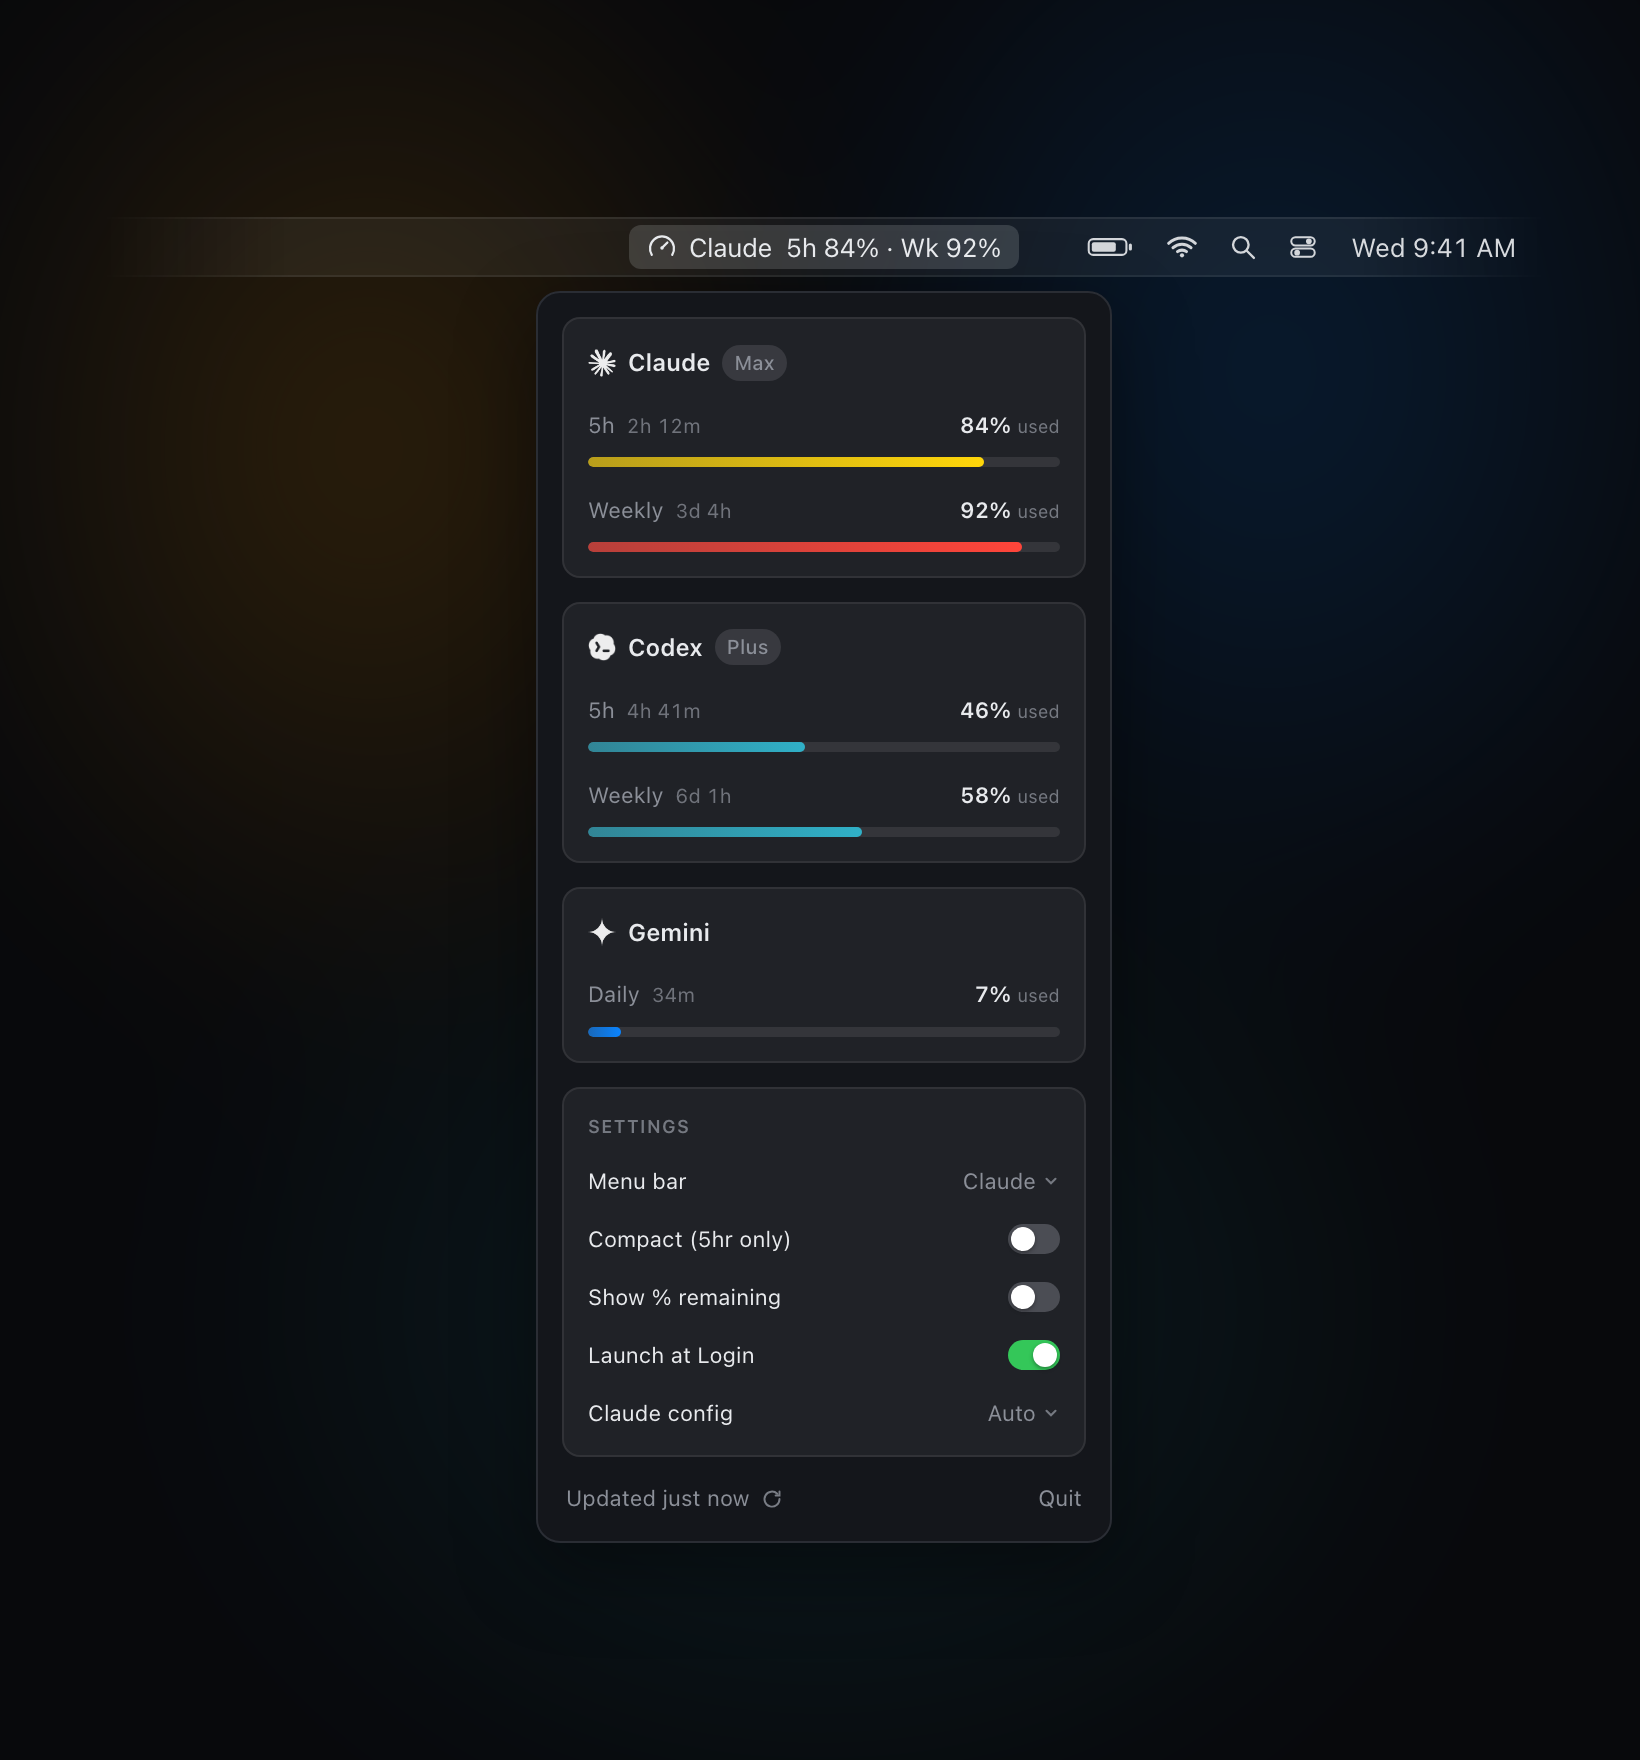
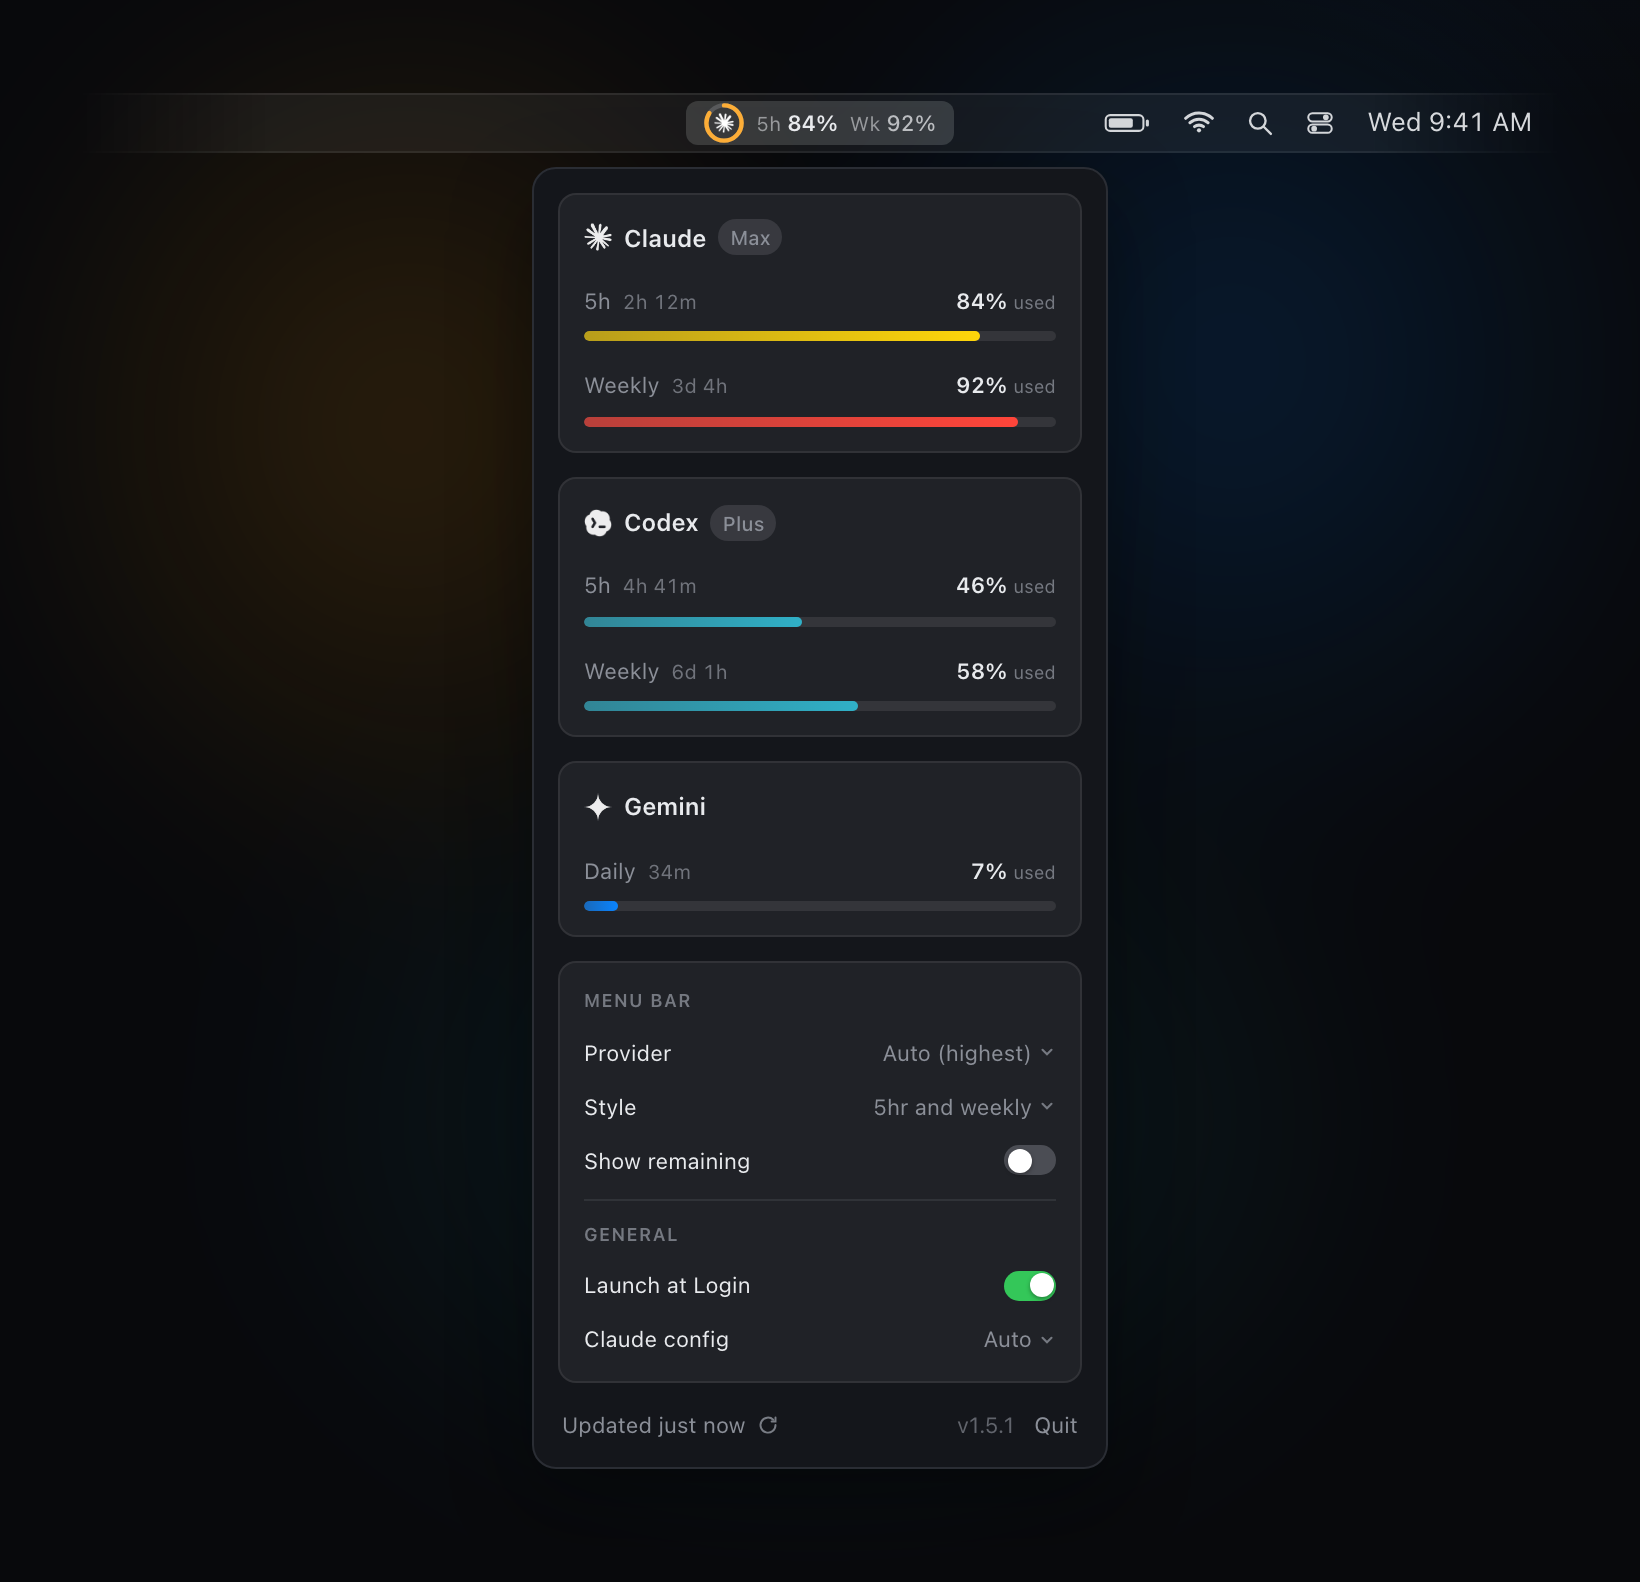
Bring the site mockup and demo images up to the current UI

diff --git a/site/index.html b/site/index.html
@@ -56,14 +56,19 @@
       <div class="mockup-wrap">
         <!-- A slice of the macOS menu bar, with the Usage Meter item open. -->
         <div class="menubar" aria-hidden="true">
-          <!-- Our menu extra, highlighted because its dropdown is open. -->
+          <!-- Our menu extra, highlighted because its dropdown is open. The item
+               is a brand mark inside a ring that tracks the 5-hour window, then
+               the windows as styled runs: dim label, loud value. -->
           <span class="mb-app is-open">
-            <svg class="gauge" viewBox="0 0 20 20" width="15" height="15" fill="none" stroke="currentColor" stroke-width="1.5" stroke-linecap="round" stroke-linejoin="round">
-              <path d="M3.2 15.2a8 8 0 1 1 13.6 0"></path>
-              <path d="M10 10.6 13.6 7"></path>
-              <circle cx="10" cy="10.6" r="1.15" fill="currentColor" stroke="none"></circle>
-            </svg>
-            <span class="mb-title">Claude&nbsp;&nbsp;5h 84% · Wk 92%</span>
+            <span class="ring" style="--pct: 84; --ring: #fcad37">
+              <svg viewBox="0 0 20 20" width="20" height="20" fill="none" stroke-linecap="round">
+                <circle class="ring-track" cx="10" cy="10" r="8.8"></circle>
+                <circle class="ring-fill" cx="10" cy="10" r="8.8"></circle>
+              </svg>
+              <img class="ring-mark" src="claude-logo.png" alt="" width="10" height="10">
+            </span>
+            <span class="mb-run"><span class="mb-lab">5h</span><span class="mb-val">84%</span></span>
+            <span class="mb-run"><span class="mb-lab">Wk</span><span class="mb-val is-second">92%</span></span>
           </span>
 
           <!-- The system menu extras, pinned to the right like the real bar. -->
@@ -157,27 +162,37 @@
             </div>
           </div>
 
+          <!-- Settings, in the app's two titled groups: what the menu-bar item
+               shows, then everything else. -->
           <div class="card settings">
-            <div class="s-title">Settings</div>
-            <div class="s-row">
-              <span class="s-label">Menu bar</span>
-              <span class="s-menu">Claude<svg class="chev" viewBox="0 0 12 12" width="9" height="9" fill="none" stroke="currentColor" stroke-width="1.4" stroke-linecap="round"><path d="M3 4.5 6 7.5 9 4.5"></path></svg></span>
+            <div class="s-group">
+              <div class="s-title">Menu Bar</div>
+              <div class="s-row">
+                <span class="s-label">Provider</span>
+                <span class="s-menu">Auto (highest)<svg class="chev" viewBox="0 0 12 12" width="9" height="9" fill="none" stroke="currentColor" stroke-width="1.4" stroke-linecap="round"><path d="M3 4.5 6 7.5 9 4.5"></path></svg></span>
+              </div>
+              <div class="s-row">
+                <span class="s-label">Style</span>
+                <span class="s-menu">5hr and weekly<svg class="chev" viewBox="0 0 12 12" width="9" height="9" fill="none" stroke="currentColor" stroke-width="1.4" stroke-linecap="round"><path d="M3 4.5 6 7.5 9 4.5"></path></svg></span>
+              </div>
+              <div class="s-row">
+                <span class="s-label">Show remaining</span>
+                <span class="sw" role="switch" aria-checked="false"></span>
+              </div>
             </div>
-            <div class="s-row">
-              <span class="s-label">Compact (5hr only)</span>
-              <span class="sw" role="switch" aria-checked="false"></span>
-            </div>
-            <div class="s-row">
-              <span class="s-label">Show % remaining</span>
-              <span class="sw" role="switch" aria-checked="false"></span>
-            </div>
-            <div class="s-row">
-              <span class="s-label">Launch at Login</span>
-              <span class="sw is-on" role="switch" aria-checked="true"></span>
-            </div>
-            <div class="s-row">
-              <span class="s-label">Claude config</span>
-              <span class="s-menu">Auto<svg class="chev" viewBox="0 0 12 12" width="9" height="9" fill="none" stroke="currentColor" stroke-width="1.4" stroke-linecap="round"><path d="M3 4.5 6 7.5 9 4.5"></path></svg></span>
+
+            <div class="s-div"></div>
+
+            <div class="s-group">
+              <div class="s-title">General</div>
+              <div class="s-row">
+                <span class="s-label">Launch at Login</span>
+                <span class="sw is-on" role="switch" aria-checked="true"></span>
+              </div>
+              <div class="s-row">
+                <span class="s-label">Claude config</span>
+                <span class="s-menu">Auto<svg class="chev" viewBox="0 0 12 12" width="9" height="9" fill="none" stroke="currentColor" stroke-width="1.4" stroke-linecap="round"><path d="M3 4.5 6 7.5 9 4.5"></path></svg></span>
+              </div>
             </div>
           </div>
 
@@ -188,7 +203,10 @@
                 <path d="M13 3v2.6h-2.6"></path>
               </svg>
             </span>
-            <span class="pf-quit">Quit</span>
+            <span class="pf-end">
+              <span class="pf-version">v1.5.1</span>
+              <span class="pf-quit">Quit</span>
+            </span>
           </div>
         </div>
       </div>
@@ -200,13 +218,19 @@
         <details class="faq-item" open>
           <summary>Why would I want this?<span class="faq-mark" aria-hidden="true"></span></summary>
           <div class="faq-a">
-            <p>Most coding tools bury your rate-limit usage behind a menu or a command, and if you use more than one, you're checking each separately. Usage Meter keeps every provider's current usage and reset time in your menu bar. Bars turn yellow at 75% and red at 90%, so you can pace your work or switch tools before you hit the wall.</p>
+            <p>Most coding tools bury your rate-limit usage behind a menu or a command, and if you use more than one, you're checking each separately. Usage Meter keeps every provider's current usage and reset time in your menu bar. The ring runs green to amber to red as a window fills, and the bars in the dropdown turn yellow at 75% and red at 90%, so you can pace your work or switch tools before you hit the wall.</p>
           </div>
         </details>
         <details class="faq-item">
           <summary>Which tools does it track?<span class="faq-mark" aria-hidden="true"></span></summary>
           <div class="faq-a">
             <p>Claude Code, Codex, and Gemini (via Antigravity or the Gemini CLI). For each one it shows the rate-limit windows, 5-hour and weekly, as percent used with the time until they reset.</p>
+          </div>
+        </details>
+        <details class="faq-item">
+          <summary>What does the menu-bar item show?<span class="faq-mark" aria-hidden="true"></span></summary>
+          <div class="faq-a">
+            <p>The tool's own mark inside a ring that fills as its 5-hour window is used, then the numbers beside it. It follows whichever provider is closest to its limit unless you pin one, and you can trim it down to the 5-hour figure, to a bare ring, or spread it out to one ring per provider. The full picture is always a click away in the dropdown.</p>
           </div>
         </details>
         <details class="faq-item">

diff --git a/site/style.css b/site/style.css
@@ -372,11 +372,11 @@ h1 { animation-delay: 0.06s; }
   .mockup-wrap::before { opacity: 0.22; filter: blur(52px); }
 }
 
-/* A slice of the macOS menu bar. Our menu extra shows the app's real title
-   (gauge + highest 5h · weekly) and reads as "open" (highlighted) and is
-   centered so the panel descends from directly beneath it; the system extras
-   sit at the right, absolutely positioned so they don't shift that centering.
-   Everything is monochrome, like the real menu bar. */
+/* A slice of the macOS menu bar. Our menu extra shows the app's real item (the
+   provider's mark inside a usage ring, then 5h and weekly), reads as "open"
+   (highlighted), and is centered so the panel descends from directly beneath
+   it; the system extras sit at the right, absolutely positioned so they don't
+   shift that centering. Monochrome apart from the ring, like the real item. */
 .menubar {
   position: relative;
   z-index: 2;
@@ -409,6 +409,7 @@ h1 { animation-delay: 0.06s; }
 .mb-app {
   display: inline-flex;
   align-items: center;
+  /* The gap the app leaves between the ring and the text it labels. */
   gap: 6px;
   height: 22px;
   padding: 0 9px;
@@ -418,8 +419,70 @@ h1 { animation-delay: 0.06s; }
   margin-right: auto;
   border-radius: 6px;
 }
-.mb-app .gauge { display: block; }
-.mb-title { letter-spacing: -0.01em; }
+
+/* The usage ring: a closed hairline track with the arc sweeping clockwise from
+   12 o'clock, the provider's mark centered inside. The arc is the one place the
+   item carries color — it runs a continuous green → amber → red ramp, so `--ring`
+   is set per instance to wherever the mockup's usage lands on it. */
+.ring {
+  position: relative;
+  display: block;
+  width: 20px;
+  height: 20px;
+  flex: none;
+}
+.ring svg {
+  display: block;
+  /* Start the stroke at the top rather than at 3 o'clock. */
+  transform: rotate(-90deg);
+}
+.ring-track {
+  stroke: currentColor;
+  opacity: 0.18;
+  stroke-width: 2.2;
+}
+.ring-fill {
+  stroke: var(--ring);
+  stroke-width: 2.2;
+  /* r = 8.8 → circumference 55.29. */
+  stroke-dasharray: calc(var(--pct) * 0.5529) 55.29;
+}
+.ring-mark {
+  position: absolute;
+  top: 50%;
+  left: 50%;
+  width: 10px;
+  height: 10px;
+  transform: translate(-50%, -50%);
+  object-fit: contain;
+  /* Tinted to the menu bar's ink, like the app's template rendering. */
+  filter: invert(1);
+}
+@media (prefers-color-scheme: light) {
+  .ring-mark { filter: none; }
+}
+
+/* Label and value stay tight together; the wider gap falls between groups. */
+.mb-run {
+  display: inline-flex;
+  align-items: baseline;
+  gap: 3px;
+}
+/* Emphasis travels by size, weight, and alpha, never color — the same
+   hierarchy holds against any menu-bar background. */
+.mb-lab {
+  font-size: 10px;
+  opacity: 0.55;
+}
+.mb-val {
+  font-size: 11px;
+  font-weight: 600;
+  letter-spacing: -0.01em;
+}
+.mb-val.is-second {
+  font-weight: 500;
+  opacity: 0.75;
+}
 /* Open menu extra: the neutral rounded highlight macOS draws behind it. */
 .mb-app.is-open {
   background: color-mix(in srgb, var(--text) 16%, transparent);
@@ -561,8 +624,20 @@ h1 { animation-delay: 0.06s; }
   .fill { animation: none; }
 }
 
-/* Settings card — label left, control right, System Settings-style. */
-.settings { gap: 11px; }
+/* Settings card — label left, control right, System Settings-style, split into
+   titled groups so "which provider is shown" and "start at login" don't read as
+   the same kind of decision. */
+.settings { gap: 10px; }
+.s-group {
+  display: flex;
+  flex-direction: column;
+  gap: 9px;
+}
+.s-div {
+  height: 1px;
+  background: color-mix(in srgb, var(--text-2) 40%, transparent);
+  opacity: 0.4;
+}
 .s-title {
   font-size: 9px;
   font-weight: 600;
@@ -623,6 +698,10 @@ h1 { animation-delay: 0.06s; }
 }
 .pf-updated { display: inline-flex; align-items: center; gap: 5px; }
 .pf-refresh { display: block; opacity: 0.85; }
+/* The running version sits quietly beside Quit, so a just-installed update is
+   verifiable at a glance. */
+.pf-end { display: inline-flex; align-items: center; gap: 10px; }
+.pf-version { opacity: 0.65; }
 
 /* FAQ — a single machined panel with hairline-divided disclosure rows. Reads
    like documentation, not marketing. */
